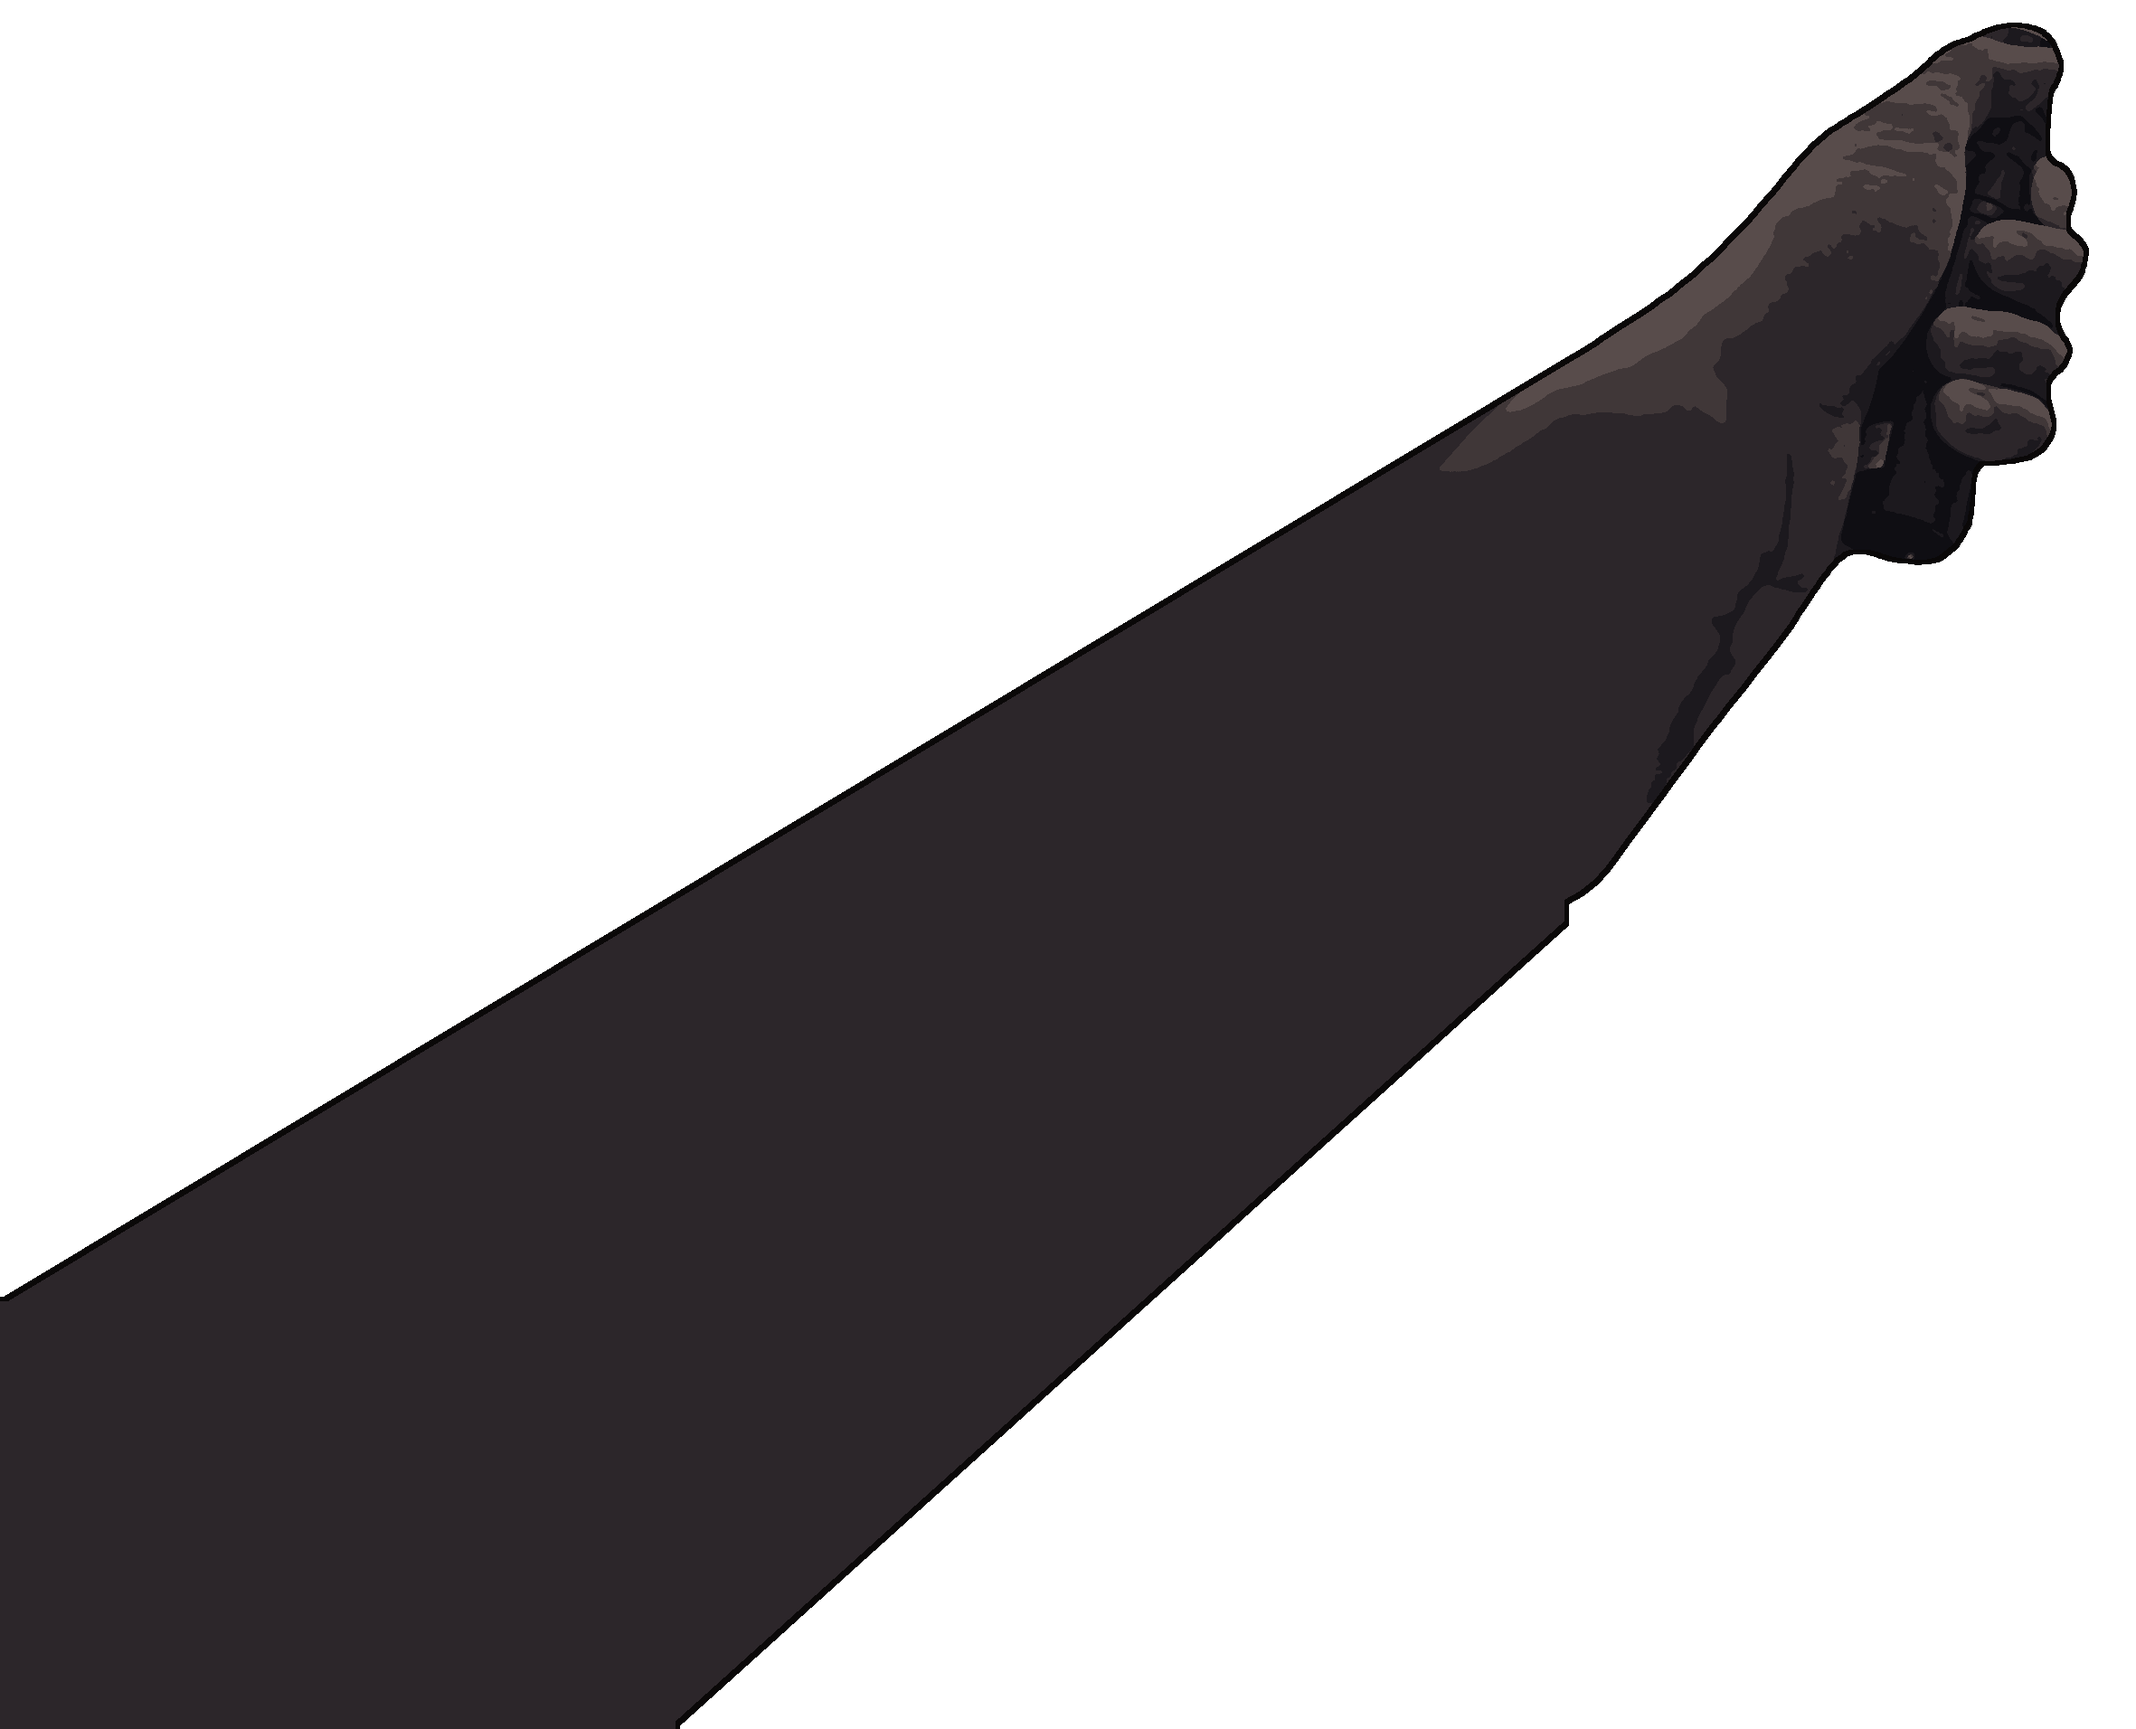
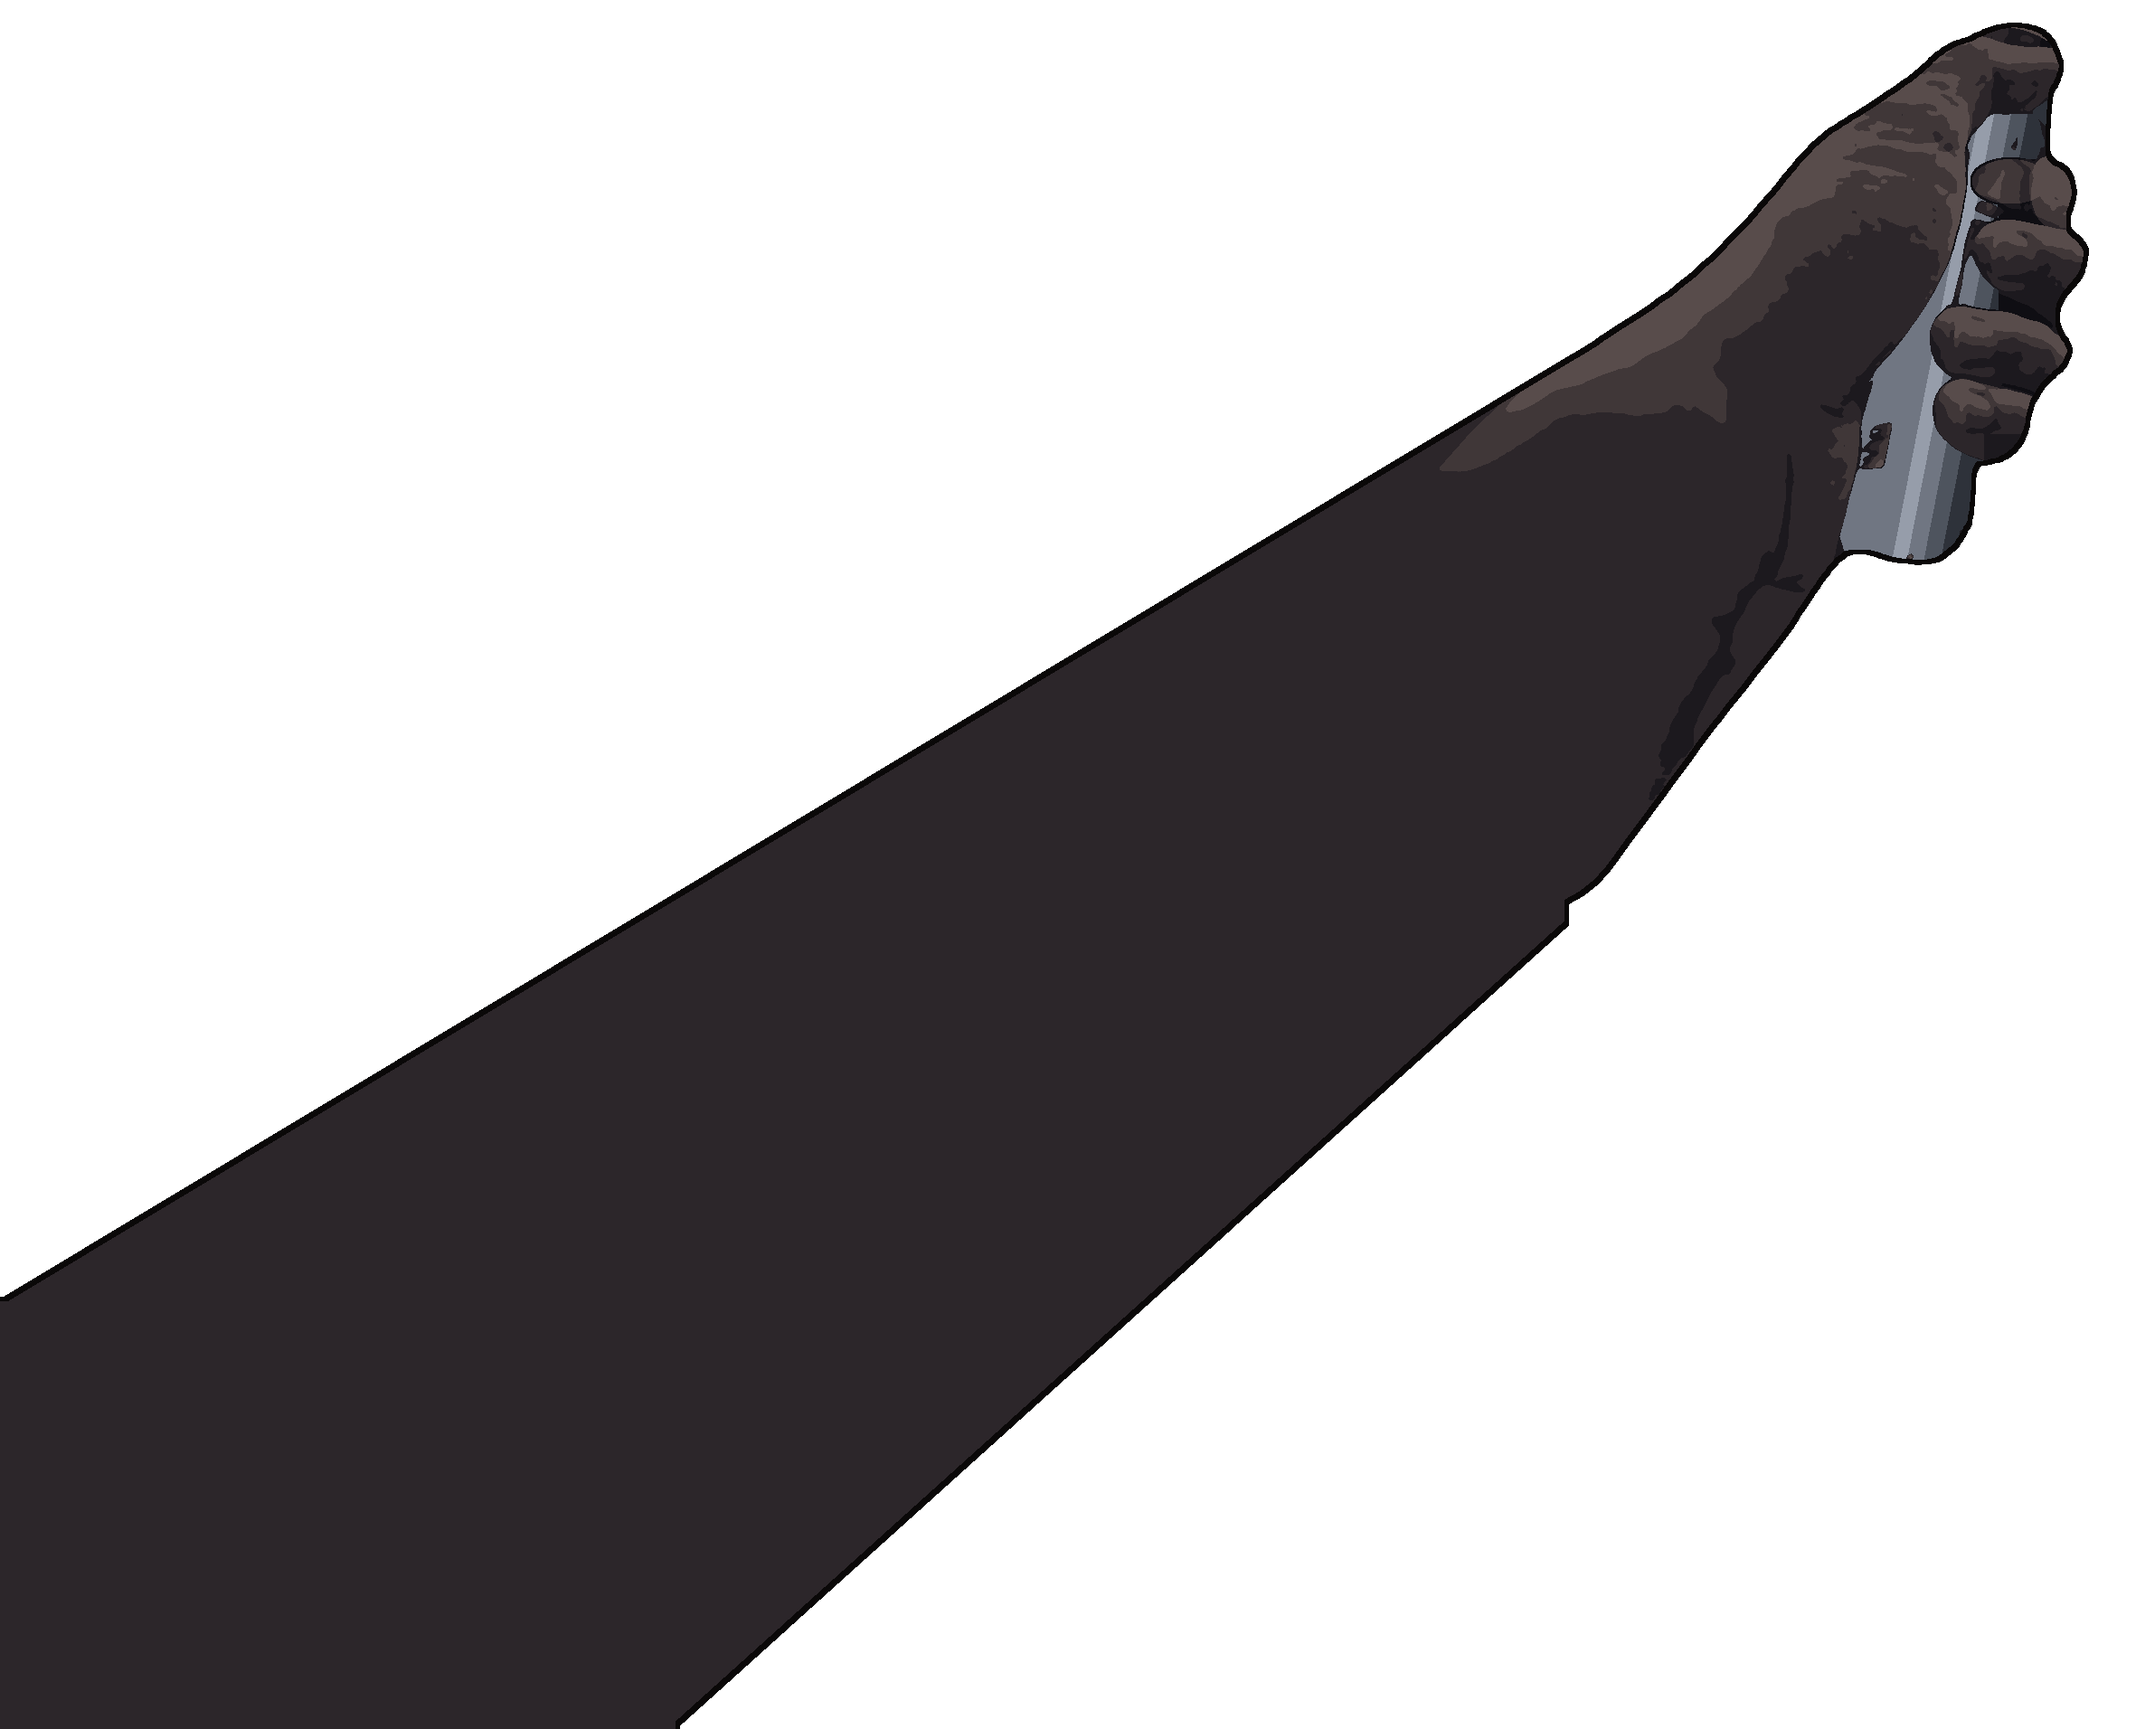
feat(ascii-cave): 換成第十版（塗鴉去背、補完標語、銀色手電筒）
- 6 張塗鴉去背改成透明 PNG，同名 JPG 刪掉
- 手電筒改銀色，食指指節提亮、小指尖收短

Changed region(s): [[0.8654, 0.0617, 0.9581, 0.3394]]

diff --git a/ascii-cave/index.html b/ascii-cave/index.html
@@ -89,6 +89,8 @@ async function start() {
     'green', 'pillar', 'scam', 'mos-erevan', 'suka', 'gey', 'throw-green', 'green-saints', 'shutter',
     'tugan', 'underpass-l', 'underpass-cat', 'underpass-teal', 'underpass-lilac', 'make-love', 'protect-trans', 'portal-red',
     'portal-tags', 'orange', 'tasma', 'fuck-you', 'column', 'card', 'kiss', 'eyes'];
+  // paint lifted off rock, a shutter, tiles or white plaster: PNG with only the strokes opaque, so it sits on the wall
+  const KEYED = new Set(['make-love', 'protect-trans', 'shutter', 'tugan', 'fuck-you', 'scam']);
   const START = Math.max(0, Number(params.get('at')) || 0); // ?at=metres starts further in; ?pause=1 stands still
   const PAUSE = params.get('pause') === '1';
   const BOB = params.get('bob') === '1';
@@ -212,7 +214,7 @@ async function start() {
   const images = (await Promise.all(GRAFFITI.map(async (name) => {
     const img = new Image();
     img.crossOrigin = 'anonymous'; // opened from file:// the pictures fail to load instead of breaking WebGL
-    img.src = `assets/graffiti/${name}.jpg`;
+    img.src = `assets/graffiti/${name}.${KEYED.has(name) ? 'png' : 'jpg'}`;
     try { await img.decode(); return { name, img }; } catch { return null; }
   }))).filter(Boolean);
   const AW = 2048, PAD = 4;

diff --git a/CHANGELOG.md b/CHANGELOG.md
@@ -1,5 +1,8 @@
 # Changelog
 
+## 2026-11-08（第十版）
+- `ascii-cave/` 換成第十版（原始碼 repo `fb57dcb`）：6 張不是畫在牆上的塗鴉去背、改成透明 PNG（`make-love`、`protect-trans`、`shutter`、`tugan`、`fuck-you`、`scam`，同名 JPG 刪掉），`card.jpg` 補成牆面；「Protect trans Kids」照原筆跡補完最後的 s。手電筒改成銀色，食指指節提亮、小指尖收短。`assets/hand/hand.png` 與預覽圖換新。
+
 ## 2026-11-08（第九版）
 - `ascii-cave/` 換成第九版（原始碼 repo `9479c2a`）：前臂照手繪的方向往左下延伸、拳頭往回收三分之一；雷達碟身往走道這側傾 30°，碗口朝走道、遠側抬高靠山坡撐住，吊塔維持垂直，走道上停下時的回正視角改成略往上看；出洞往走道前的隧道右牆貼了一張做舊的海報（新增 `assets/graffiti/poster.jpg`）。`assets/hand/hand.png` 與預覽圖換新。
 
